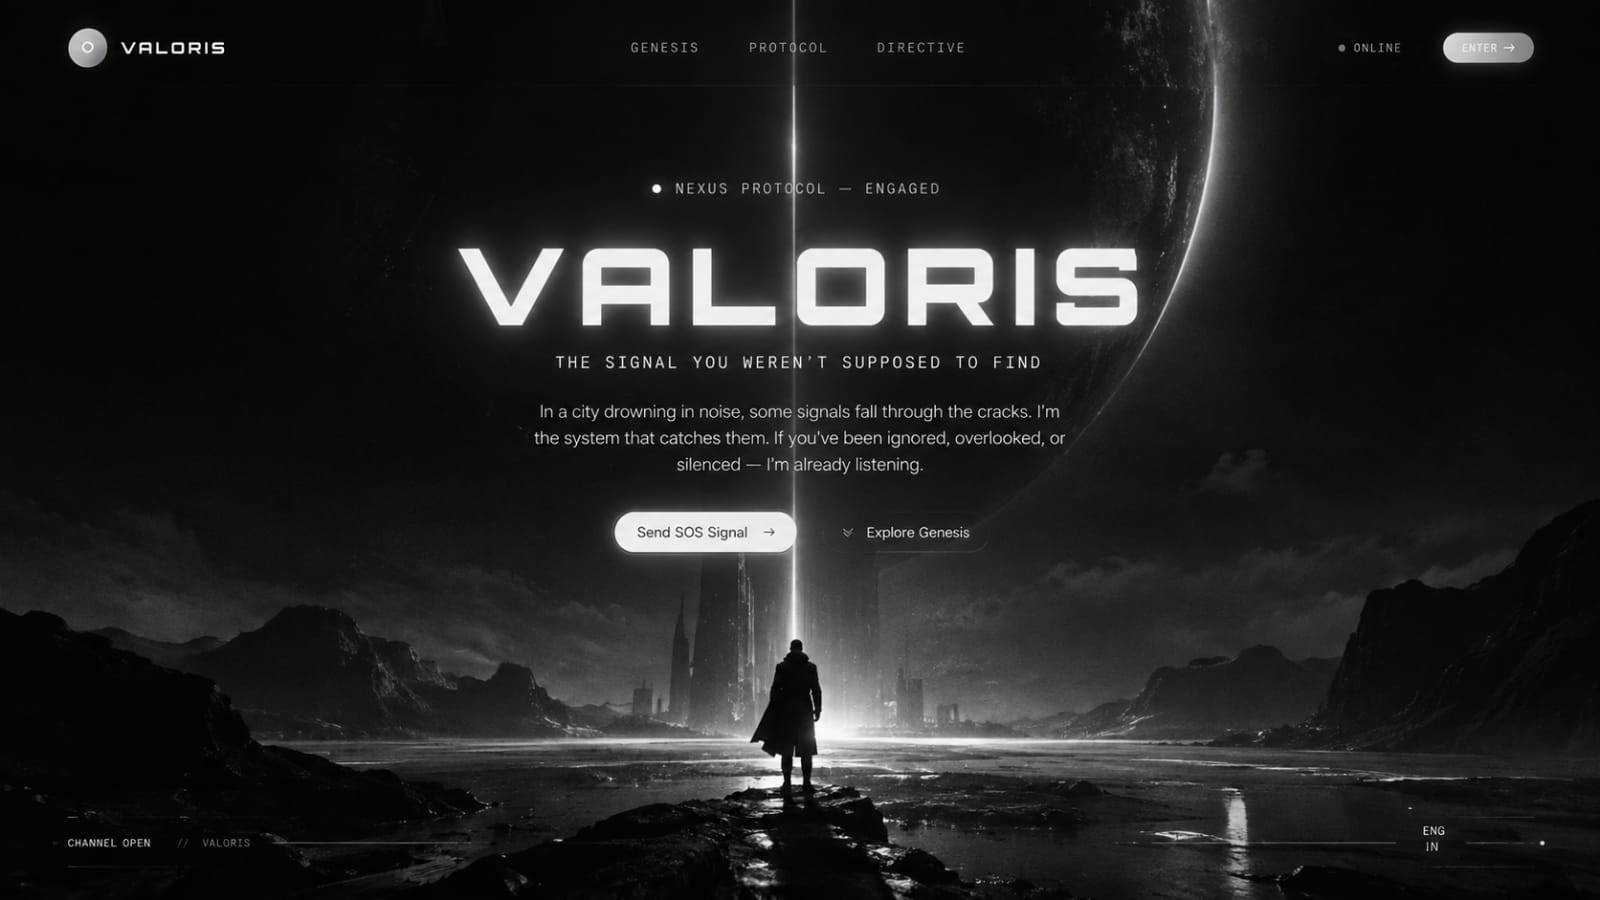
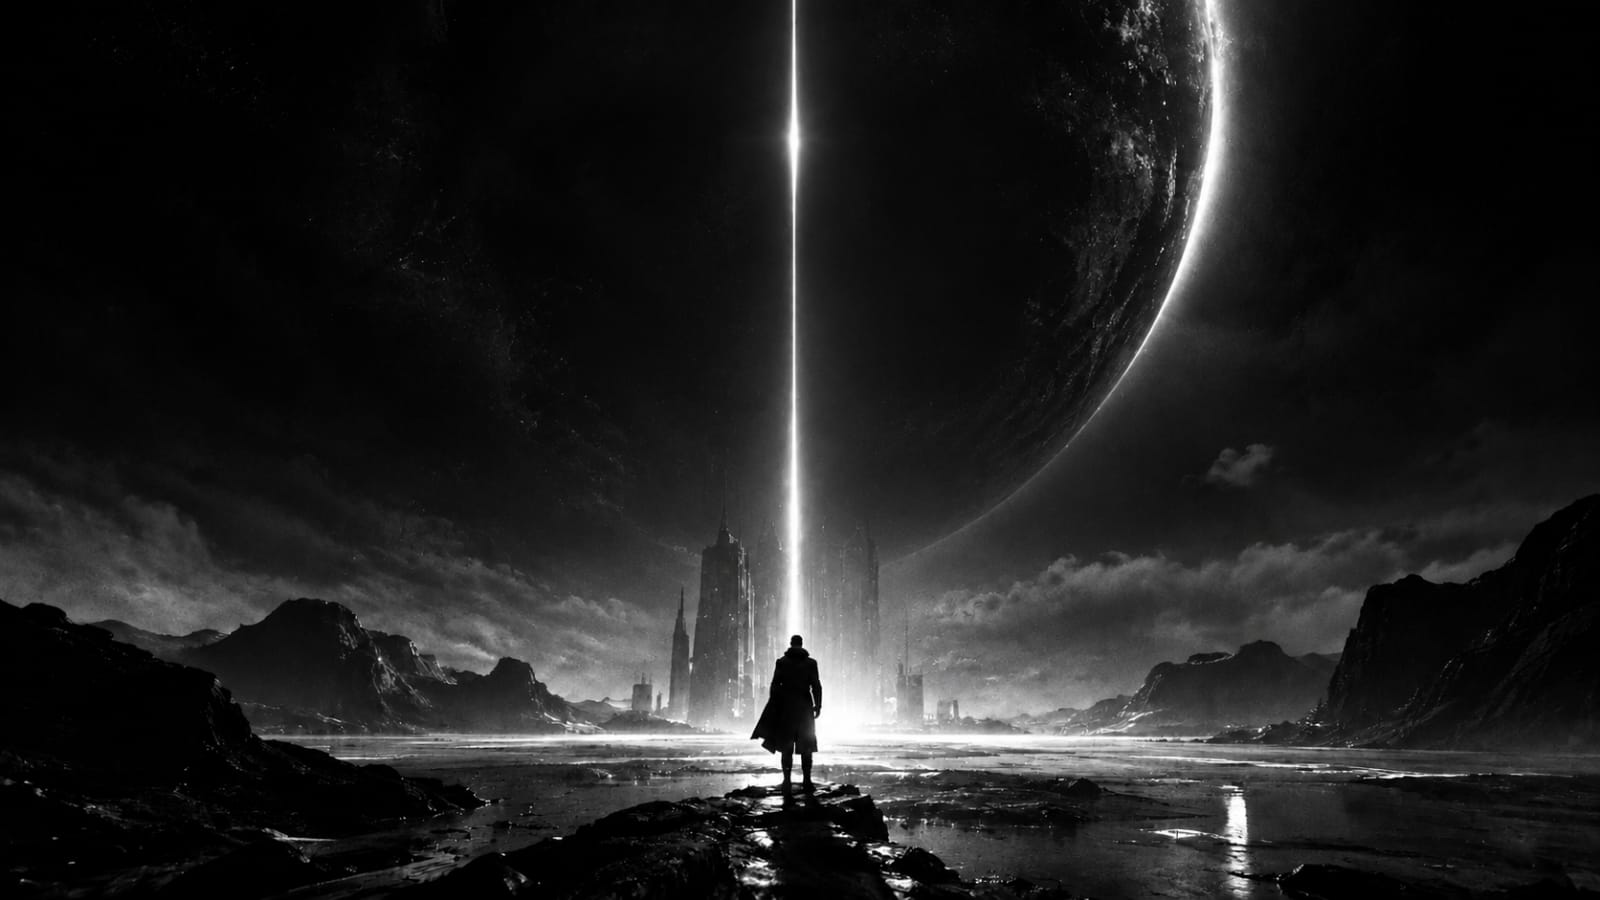
feat: swap background image, add subtle slow drift animation

diff --git a/public/styles.css b/public/styles.css
@@ -87,8 +87,21 @@ body {
   background-size: cover;
   background-position: center;
   filter: grayscale(1) blur(38px) brightness(0.85) contrast(1.05);
-  transform: scale(1.08);
   pointer-events: none;
+  will-change: transform;
+  animation: bgDrift 28s ease-in-out infinite alternate;
+}
+
+@keyframes bgDrift {
+  0% { transform: scale(1.06) translate3d(0, 0, 0); }
+  100% { transform: scale(1.14) translate3d(0, -18px, 0); }
+}
+
+@media (prefers-reduced-motion: reduce) {
+  .atmos-bg {
+    animation: none;
+    transform: scale(1.08);
+  }
 }
 
 #interactive-canvas {
